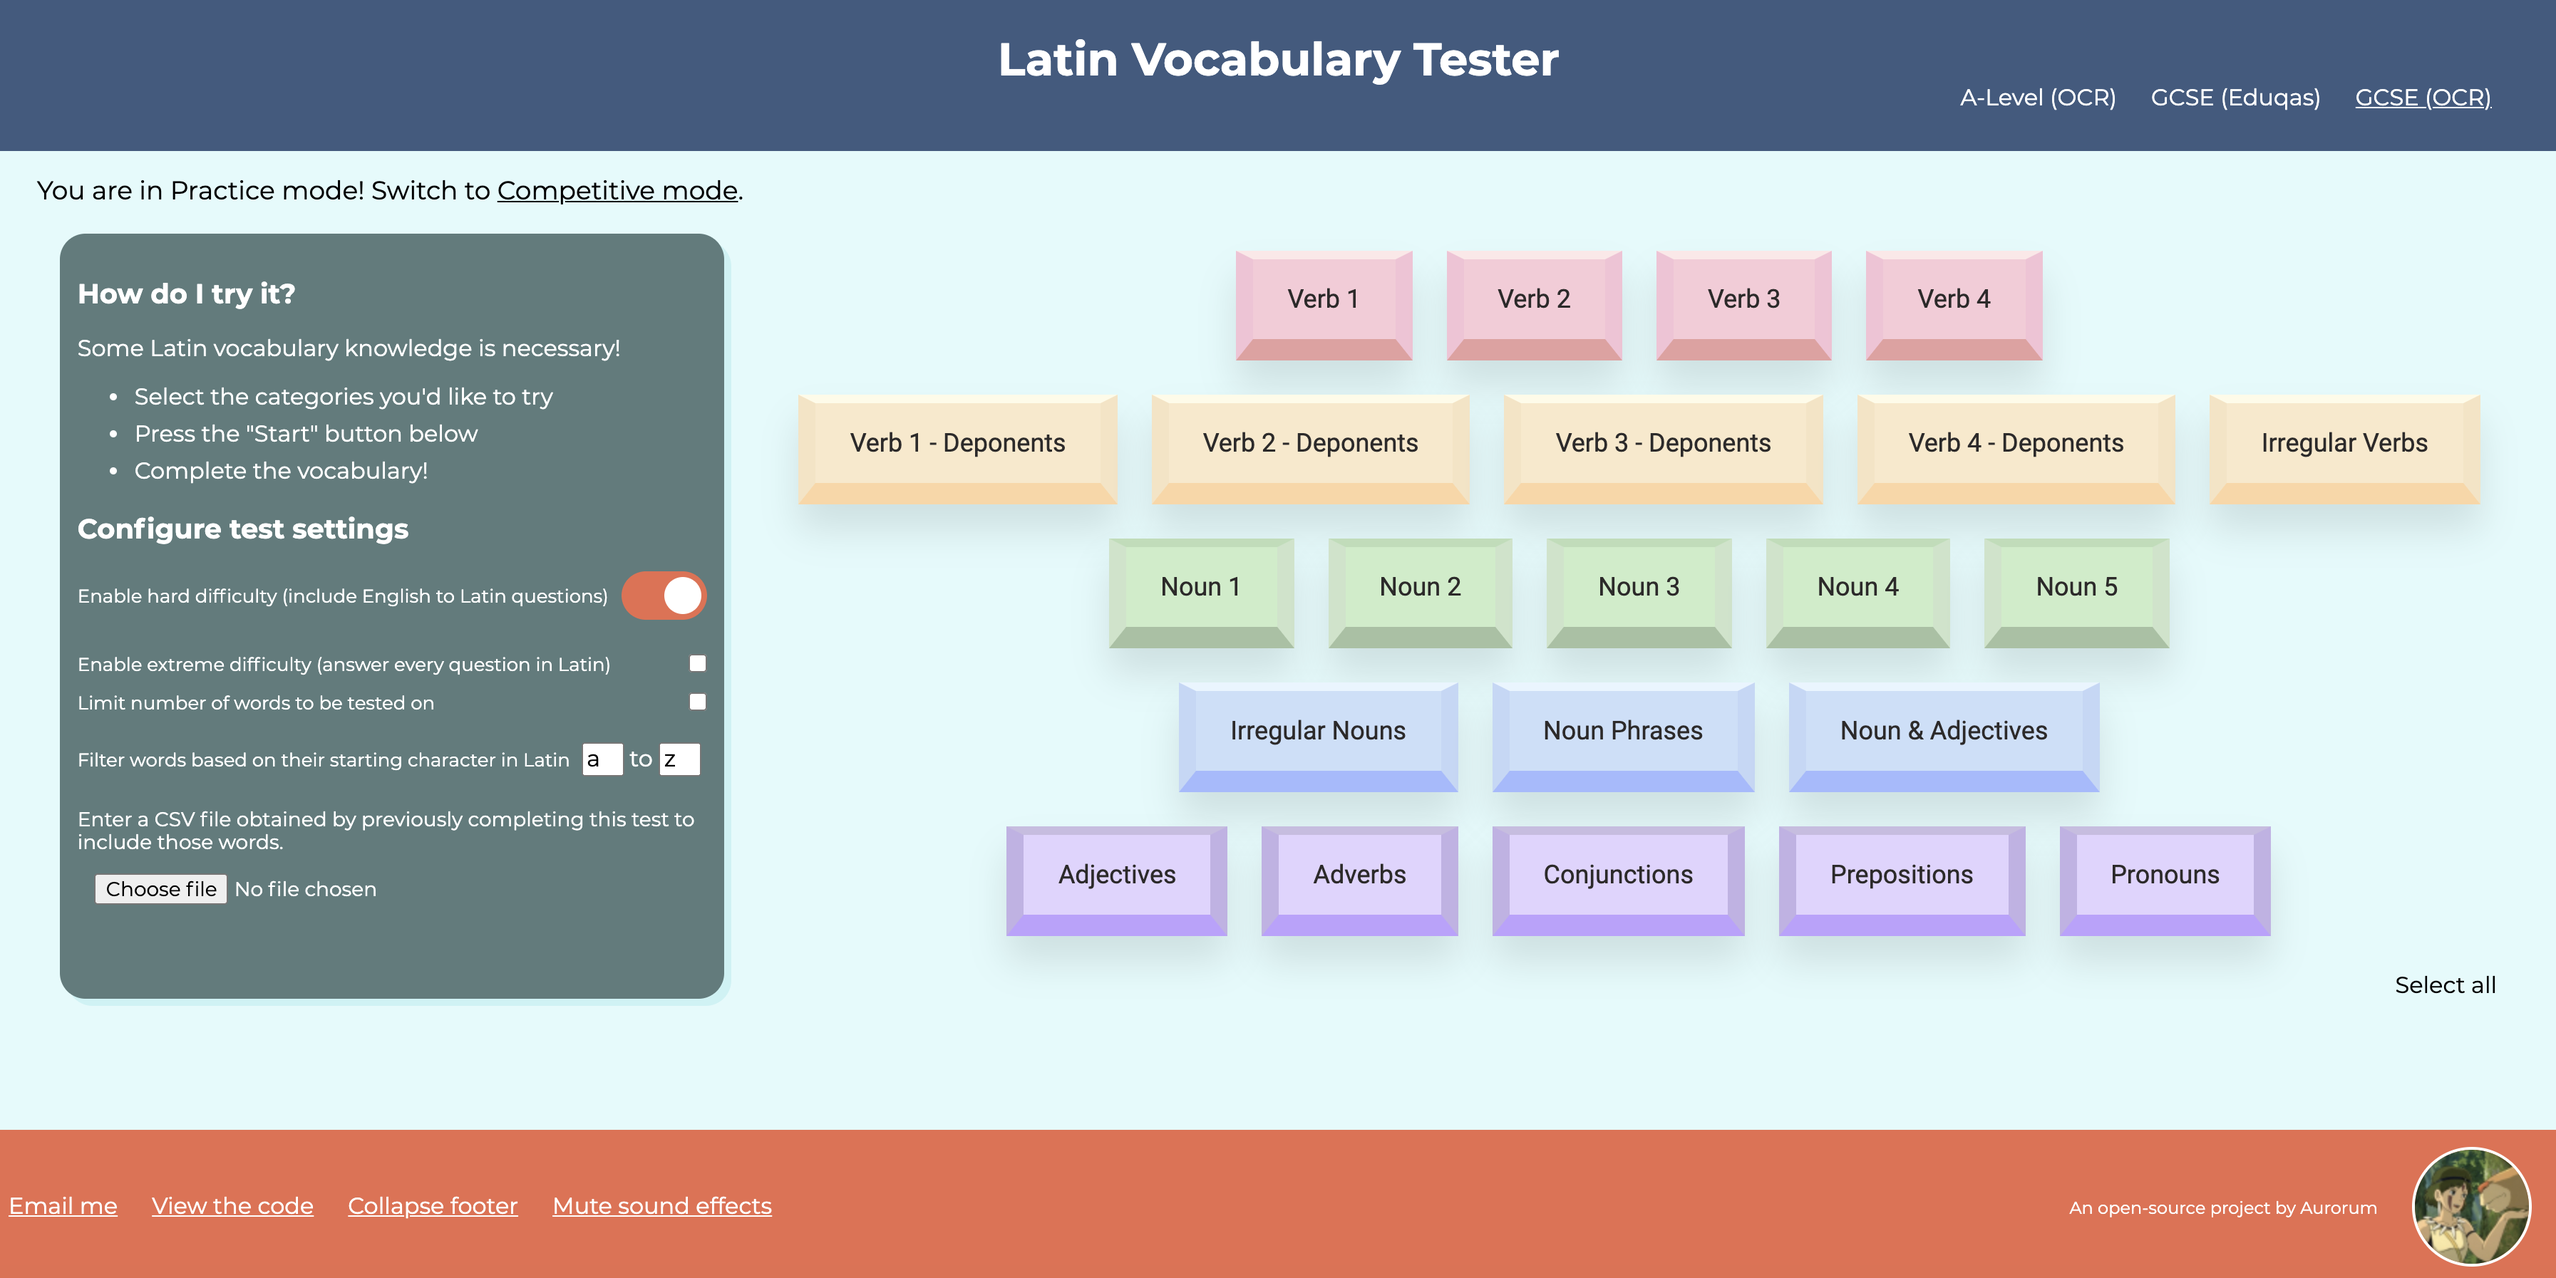
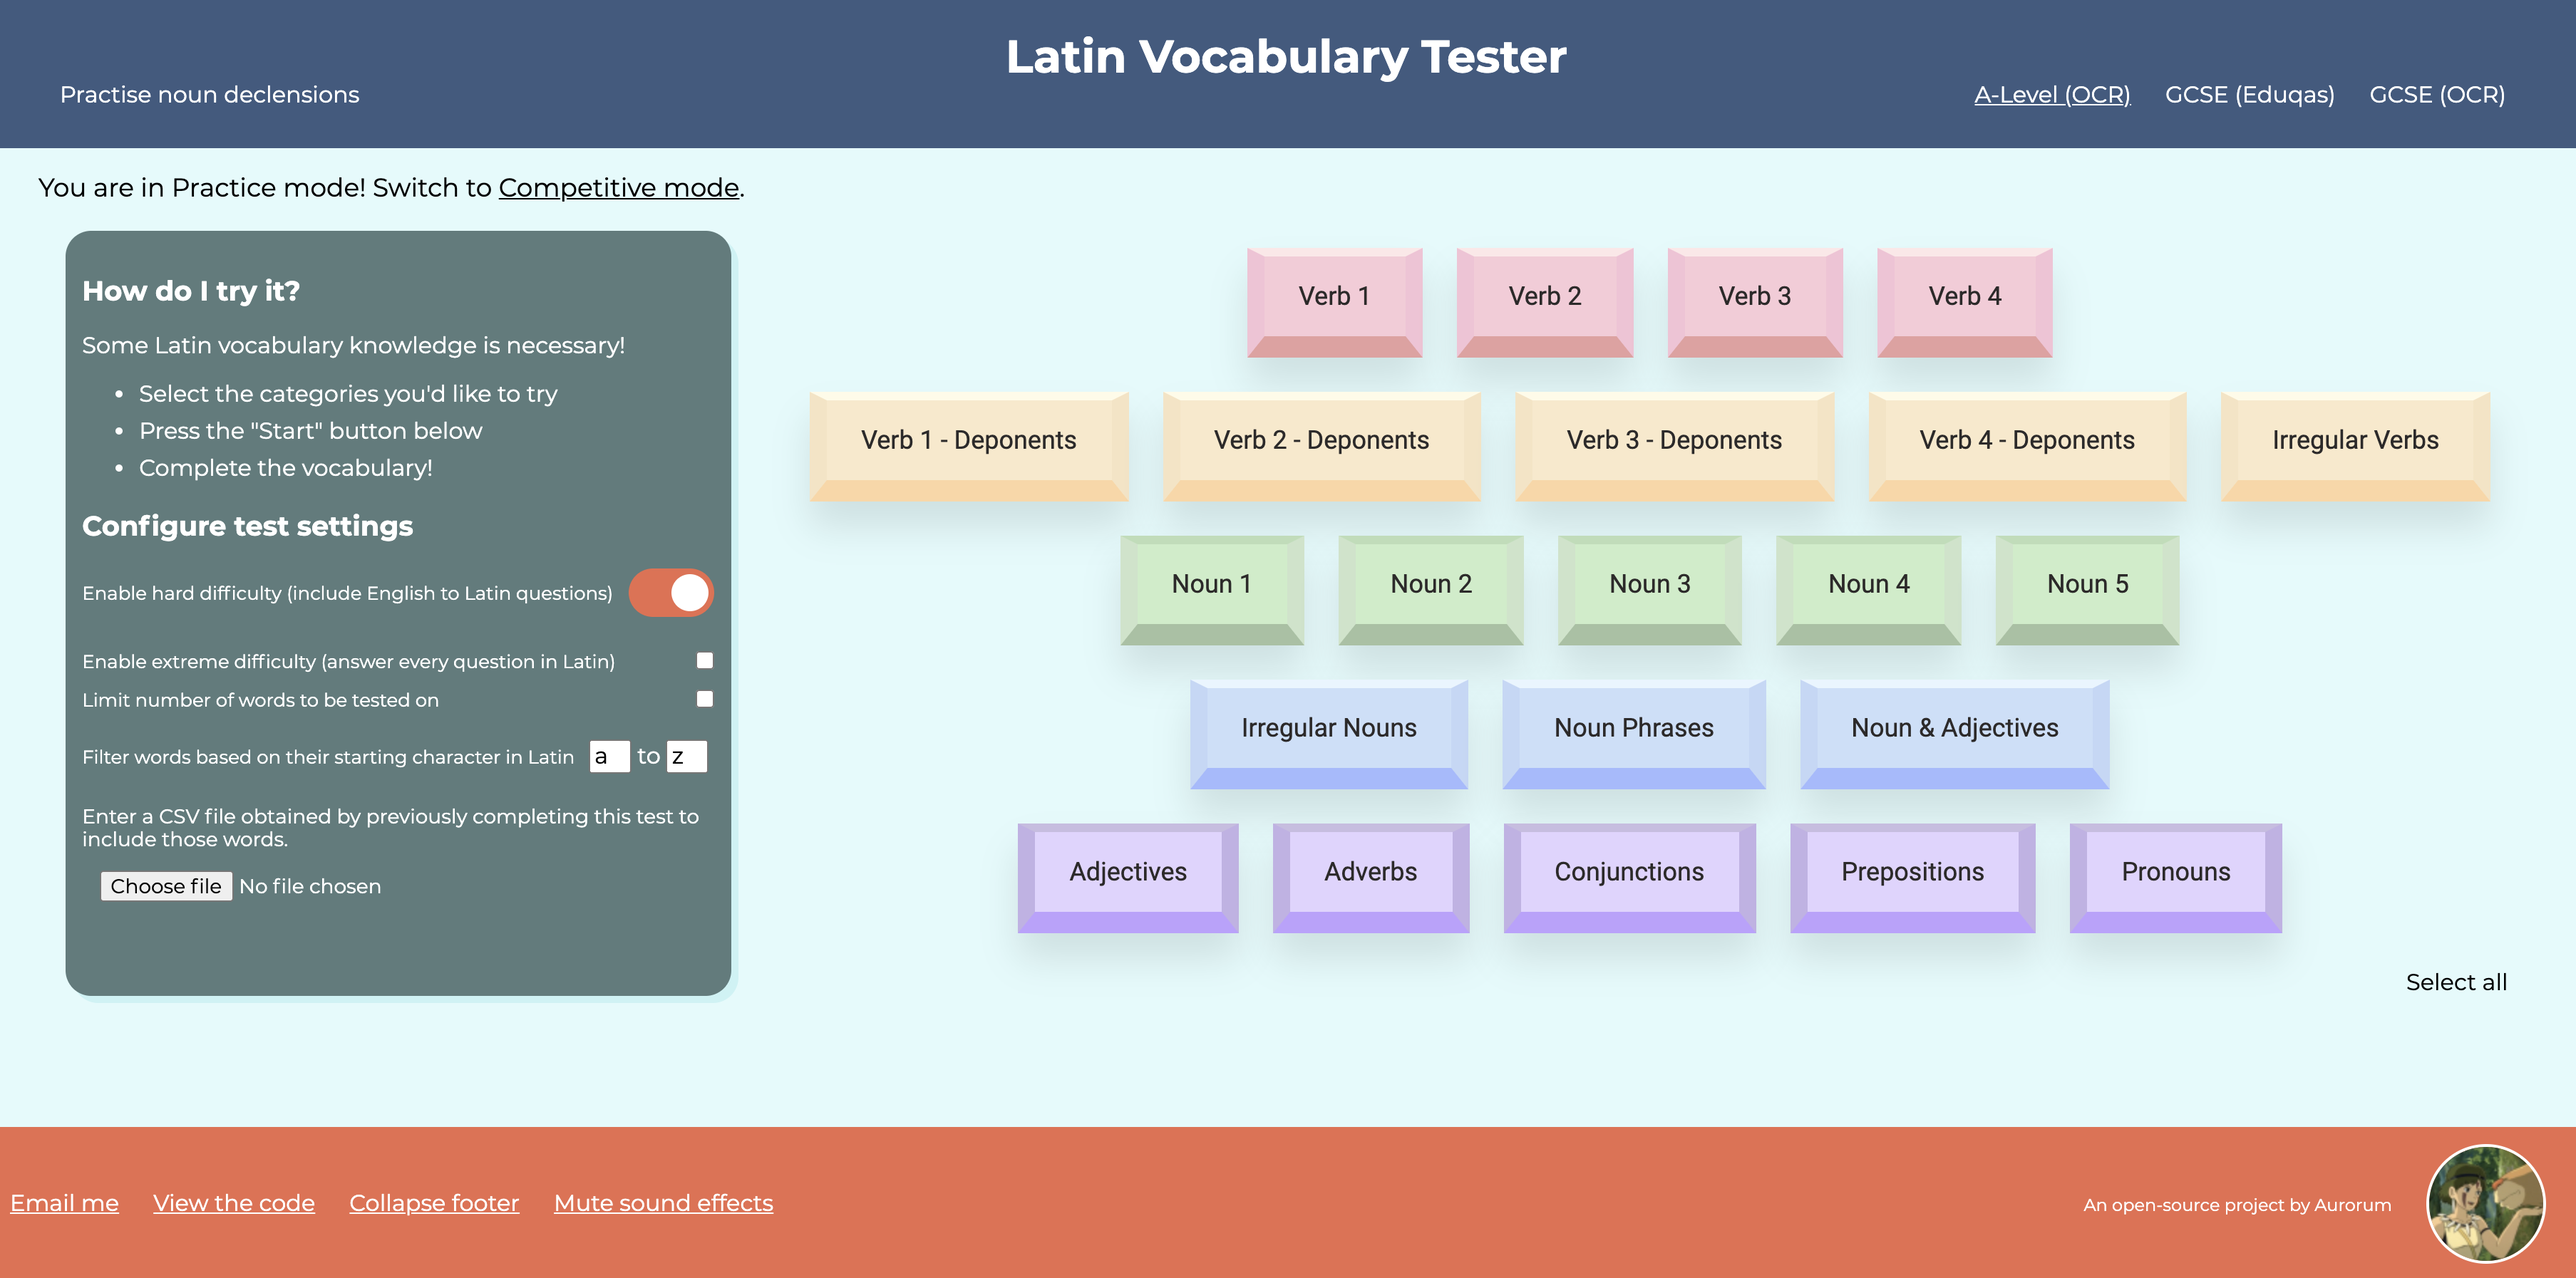
Add Google Analytics

diff --git a/index.html b/index.html
@@ -30,6 +30,13 @@
 			href="https://fonts.googleapis.com/css2?family=Montserrat:wght@400;700&amp;family=Roboto&amp;display=swap"
 			rel="stylesheet"
 		/>
+		<script async src="https://www.googletagmanager.com/gtag/js?id=G-1QZXG1GX8M"></script>
+		<script>
+  			window.dataLayer = window.dataLayer || [];
+  			function gtag(){dataLayer.push(arguments);}
+  				gtag('js', new Date());
+  			gtag('config', 'G-1QZXG1GX8M');
+		</script>
 	</head>
 	<body>
 		<div id="curtain" class="curtain is-not-triggered"></div>
@@ -39,6 +46,7 @@
 				<h1>Latin Vocabulary Tester</h1>
 			</div>
 			<div id="option" class="options-menu">
+				<a onclick="startTest(true)" class="practise-declensions-link">Practise noun declensions</a>
 				<a class="alevelocrlink" onclick="changeOption('alevelocr')">A-Level (OCR)</a>
 				<a class="gcseeduqaslink" onclick="changeOption('gcseeduqas')">GCSE (Eduqas)</a>
 				<a class="gcseocrlink" onclick="changeOption('gcseocr')">GCSE (OCR)</a>

diff --git a/scripts.js b/scripts.js
@@ -73,6 +73,10 @@ window.onload = function () {
 		switchMode();
 		startCompetition( 'vocab' );
 	}
+	
+	if ( new URLSearchParams( window.location.search ).get( 'declensionpractise' ) ) {
+		startTest( true );
+	}
 
 	if ( new URLSearchParams( window.location.search ).get( 'ref' ) ) {
 		collectData(
@@ -528,7 +532,7 @@ function checkDeclensionAnswer( shouldReveal = false ) {
 			if ( ! mute ) {
 				new Audio( './assets/audio/correct.mp3' ).play();
 			}
-			collectData( 'Answered declension question correctly by inputting ' + answerInput );
+			collectData( 'Answered declension question correctly by inputting ' + enteredAnswer );
 			return buildDeclensionTest();
 		}
 
@@ -538,7 +542,7 @@ function checkDeclensionAnswer( shouldReveal = false ) {
 
 		collectData(
 			'Answered declension question incorrectly by inputting ' +
-				answerInput +
+				enteredAnswer +
 				' when expecting ' +
 				actualAnswer
 		);

diff --git a/style.css b/style.css
@@ -531,6 +531,7 @@ a:hover {
 .competition-conclusion,
 .leaderboard-wrapper,
 .is-competitive-mode #practise-mode,
+.is-competitive-mode .practise-declensions-link,
 .is-competitive-mode .introductary-text,
 .is-competitive-mode .test-settings-wrapper,
 .is-competitive-mode .reveal-answer-button,
@@ -682,6 +683,11 @@ a:hover {
 
 .test-settings-wrapper p {
 	font-size: 13px;
+}
+
+.practise-declensions-link {
+	flex-basis: 75%;
+	justify-content: end;
 }
 
 .close-settings {
